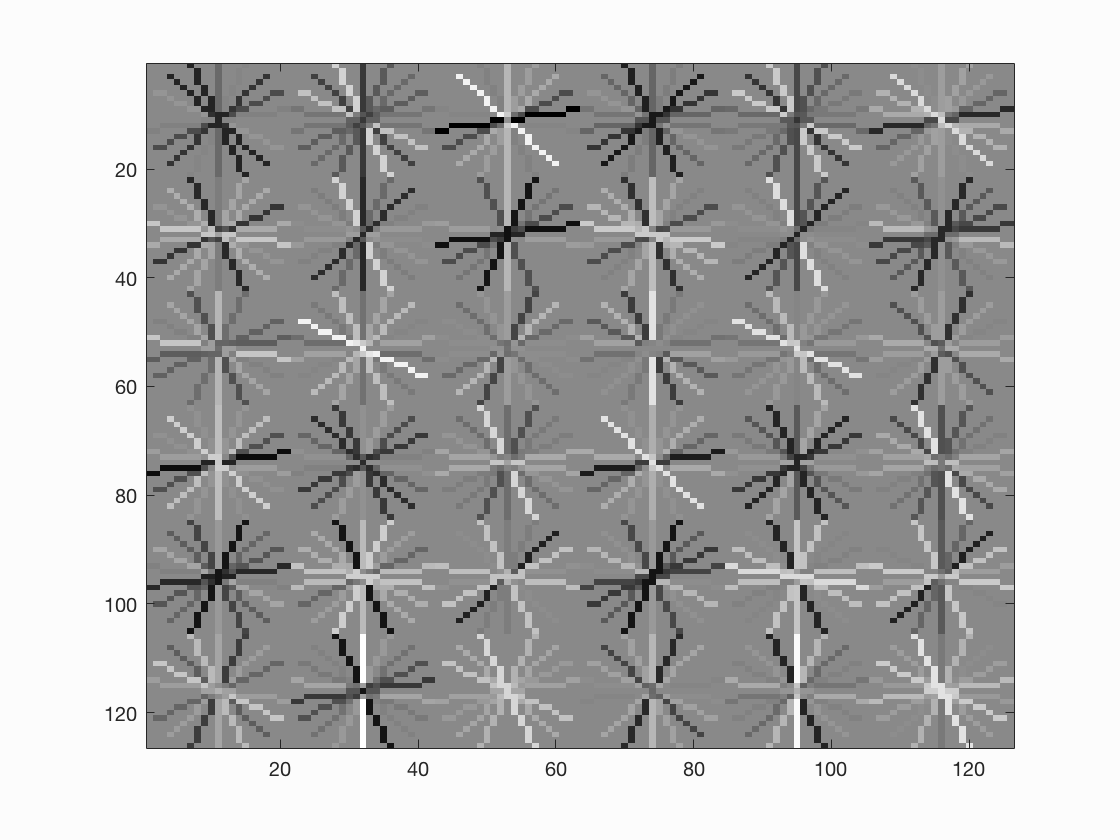
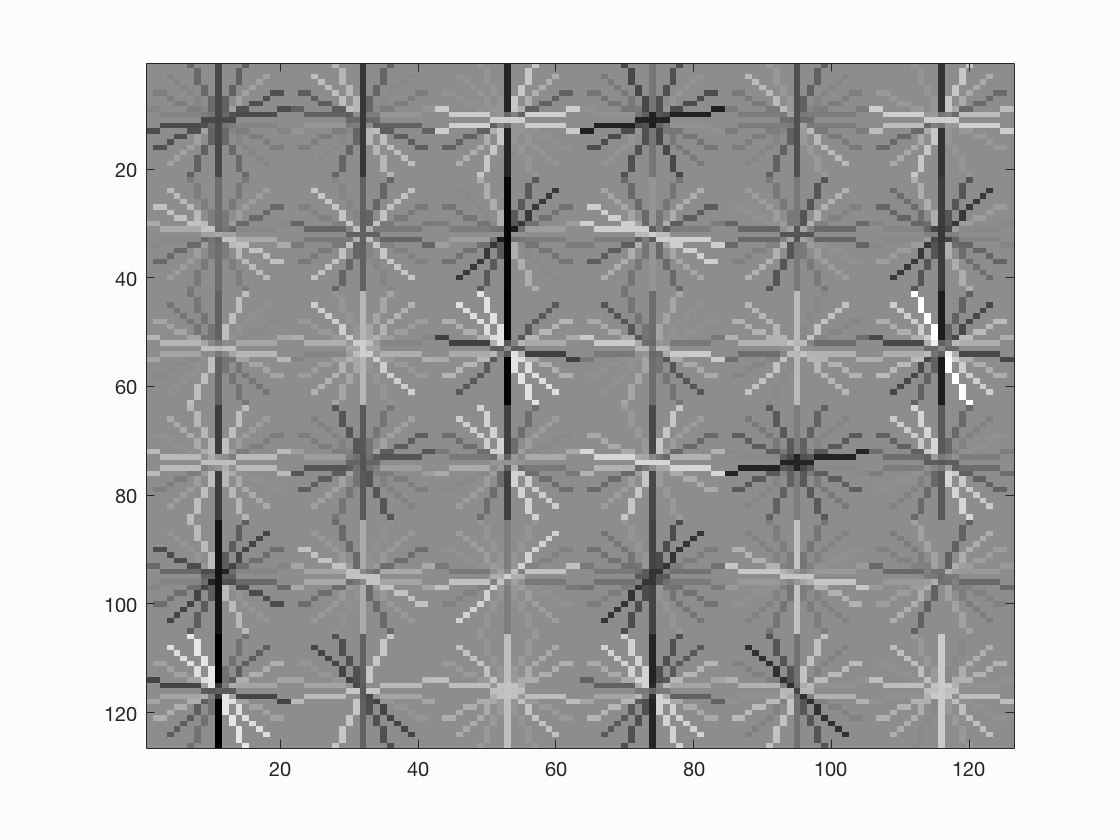
add multiscale & bug fixed

Changed region(s): [[0.125, 0.0619, 0.9062, 0.8976]]

diff --git a/run_detector.m b/run_detector.m
@@ -18,7 +18,6 @@ function [bboxes, confidences, image_ids] = ....
 %      Smaller HoG cell sizes tend to work better, but they make things
 %      slower because the feature dimensionality increases and more
 %      importantly the step size of the classifier decreases at test time.
-
 % 'bboxes' is Nx4. N is the number of detections. bboxes(i,:) is
 %   [x_min, y_min, x_max, y_max] for detection i. 
 %   Remember 'y' is dimension 1 in Matlab!
@@ -26,11 +25,9 @@ function [bboxes, confidences, image_ids] = ....
 %   detection i.
 % 'image_ids' is an Nx1 cell array. image_ids{i} is the image file name
 %   for detection i. (not the full path, just 'albert.jpg')
-
 % The placeholder version of this code will return random bounding boxes in
 % each test image. It will even do non-maximum suppression on the random
 % bounding boxes to give you an example of how to call the function.
-
 % Your actual code should convert each test image to HoG feature space with
 % a _single_ call to vl_hog for each scale. Then step over the HoG cells,
 % taking groups of cells that are the same size as your learned template,
@@ -38,48 +35,90 @@ function [bboxes, confidences, image_ids] = ....
 % keep the detection and then pass all the detections for an image to
 % non-maximum suppression. For your initial debugging, you can operate only
 % at a single scale and you can skip calling non-maximum suppression.
-
 test_scenes = dir( fullfile( test_scn_path, '*.jpg' ));
-
+fprintf('~~~path: %s', test_scn_path);
 %initialize these as empty and incrementally expand them.
 bboxes = zeros(0,4);
 confidences = zeros(0,1);
 image_ids = cell(0,1);
-
 for i = 1:length(test_scenes)
       
     fprintf('Detecting faces in %s\n', test_scenes(i).name)
-    img = imread( fullfile( test_scn_path, test_scenes(i).name ));
-    img = single(img)/255;
-    if(size(img,3) > 1)
-        img = rgb2gray(img);
+    IMG = imread( fullfile( test_scn_path, test_scenes(i).name ));
+    if(size(IMG,3) > 1)
+        IMG = rgb2gray(IMG);
     end
-    
-    %You can delete all of this below.
-    % Let's create 15 random detections per image
-    cur_x_min = rand(15,1) * size(img,2);
-    cur_y_min = rand(15,1) * size(img,1);
-    cur_bboxes = [cur_x_min, cur_y_min, cur_x_min + rand(15,1) * 50, cur_y_min + rand(15,1) * 50];
-    cur_confidences = rand(15,1) * 4 - 2; %confidences in the range [-2 2]
-    cur_image_ids(1:15,1) = {test_scenes(i).name};
-    
+    %img = single(img)/255;???
+    img = IMG;
+    num_cells= feature_params.template_size / feature_params.hog_cell_size; %6.
+    num_orientations=9;
+    D=(num_cells)^2 * 4 * num_orientations;
+    cur_bboxes = zeros(0,4);
+    cur_confidences = zeros(0,1);
+    cur_image_ids = cell(0,1);
+    rate=single(1.0);
+    fprintf('\n');
+    while 1
+        %fprintf('size:%d*%d\n',size(img,1),size(img,2) );
+        fprintf('rate: %f ',rate);
+        if size(img,1)<36 || size(img,2)<36
+            break;
+        end
+        %You can delete all of this below.
+        % Let's create 15 random detections per image
+        %cur_x_min = rand(15,1) * size(img,2);
+        %cur_y_min = rand(15,1) * size(img,1);
+        %cur_bboxes = [cur_x_min, cur_y_min, cur_x_min + rand(15,1) * 50, cur_y_min + rand(15,1) * 50];
+        %cur_confidences = rand(15,1) * 4 - 2; %confidences in the range [-2 2]
+        %cur_image_ids(1:15,1) = {test_scenes(i).name};
+
+        [X,Y]=size(img);
+        feature=rand(1,D);
+        %fprintf('Find faces in %s\n', test_scenes(i).name);
+
+        HOG = vl_hog(single(img),feature_params.hog_cell_size,'variant','dalaltriggs','numOrientations',num_orientations);
+
+        for j=0:feature_params.hog_cell_size:(X-feature_params.template_size)
+            for k=0:feature_params.hog_cell_size:(Y-feature_params.template_size)
+                %Im=img((j+1):(j+feature_params.template_size),(k+1):(k+feature_params.template_size));
+                hog = HOG((j/feature_params.hog_cell_size+1) : (j/feature_params.hog_cell_size+num_cells),... 
+                        (k/feature_params.hog_cell_size+1) : (k/feature_params.hog_cell_size+num_cells),:);
+                temp1=reshape(hog,[num_cells^2,num_orientations*4]);
+                temp2=transpose(temp1);
+                feature(1,:)=reshape(temp2,[1,D]); 
+                %for m=1:num_cells
+                %   for n=1:num_cells
+                %      last=((m-1)*num_cells+n-1)*36;
+                %     curr=((m-1)*num_cells+n)*36;
+                %    feature_pos((last+1):curr)=HOG(m,n,:);
+                % end 
+                %end
+                confidence=feature*w+b;
+                if confidence>0.45
+                    cur_bboxes=[cur_bboxes; (k+1)/rate,(j+1)/rate,(k+feature_params.template_size)/rate,(j+feature_params.template_size)/rate];
+                    cur_confidences=[cur_confidences;confidence];
+                    cur_image_ids=[cur_image_ids;test_scenes(i).name];
+                end
+            end
+        end
+        img = imresize(img,0.9);
+        rate = rate*0.9;
+    end
+    %fprintf('Suppress %d %d faces in %s\n', size(cur_bboxes,1),size(cur_confidences,1),test_scenes(i).name);
     %non_max_supr_bbox can actually get somewhat slow with thousands of
     %initial detections. You could pre-filter the detections by confidence,
     %e.g. a detection with confidence -1.1 will probably never be
     %meaningful. You probably _don't_ want to threshold at 0.0, though. You
     %can get higher recall with a lower threshold. You don't need to modify
     %anything in non_max_supr_bbox, but you can.
-    [is_maximum] = non_max_supr_bbox(cur_bboxes, cur_confidences, size(img));
-
+    [is_maximum] = non_max_supr_bbox(cur_bboxes, cur_confidences, size(IMG));
     cur_confidences = cur_confidences(is_maximum,:);
     cur_bboxes      = cur_bboxes(     is_maximum,:);
     cur_image_ids   = cur_image_ids(  is_maximum,:);
- 
+
     bboxes      = [bboxes;      cur_bboxes];
     confidences = [confidences; cur_confidences];
     image_ids   = [image_ids;   cur_image_ids];
+        
+        
 end
-
-
-
-

diff --git a/proj4.m b/proj4.m
@@ -57,10 +57,10 @@ feature_params = struct('template_size', 36, 'hog_cell_size', 6);
 
 %% Step 1. Load positive training crops and random negative examples
 %YOU CODE 'get_positive_features' and 'get_random_negative_features'
-
+    
 features_pos = get_positive_features( train_path_pos, feature_params );
 
-num_negative_examples = 10000; %Higher will work strictly better, but you should start with 10000 for debugging
+num_negative_examples = 20000; %Higher swill work strictly better, but you should start with 10000 for debugging
 features_neg = get_random_negative_features( non_face_scn_path, feature_params, num_negative_examples);
 
     
@@ -80,8 +80,8 @@ features_neg = get_random_negative_features( non_face_scn_path, feature_params, 
 X = [features_pos; features_neg];
 X = X.';
 
-[posN, D] = size(features_pos);
-[negN, D] = size(features_neg);
+[posN, ~] = size(features_pos);
+[negN, ~] = size(features_neg);
 y1 = ones(posN,1);
 y2 = ones(negN,1)*(-1);
 Y = [y1;y2];
@@ -157,10 +157,10 @@ imwrite(hog_template_image, 'visualizations/hog_template.png')
 [gt_ids, gt_bboxes, gt_isclaimed, tp, fp, duplicate_detections] = ...
     evaluate_detections(bboxes, confidences, image_ids, label_path);
 
-visualize_detections_by_image(bboxes, confidences, image_ids, tp, fp, test_scn_path, label_path)
+%visualize_detections_by_image(bboxes, confidences, image_ids, tp, fp, test_scn_path, label_path)
 % visualize_detections_by_image_no_gt(bboxes, confidences, image_ids, test_scn_path)
 
-% visualize_detections_by_confidence(bboxes, confidences, image_ids, test_scn_path, label_path);
+ visualize_detections_by_confidence(bboxes, confidences, image_ids, test_scn_path, label_path);
 
 % performance to aim for
 % random (stater code) 0.001 AP

diff --git a/get_positive_features.m b/get_positive_features.m
@@ -38,13 +38,16 @@ for i=1:num_images
     file=fullfile(train_path_pos, image_files(i).name);
     Im=imread(file);
     HOG=vl_hog(single(Im),feature_params.hog_cell_size,'variant','dalaltriggs','numOrientations',num_orientations);
-    for j=1:num_cells
-        for k=1:num_cells
-            last=((j-1)*num_cells+k-1)*num_orientations*4;
-            curr=((j-1)*num_cells+k)*num_orientations*4;
-            features_pos(i,(last+1):curr)=HOG(j,k,:);
-        end 
-    end           
+    temp1=reshape(HOG,[num_cells^2,num_orientations*4]);
+    temp2=transpose(temp1);
+    features_pos(i,:)=reshape(temp2,[D,1]); 
+    %for j=1:num_cells
+    %    for k=1:num_cells
+    %       last=((j-1)*num_cells+k-1)*num_orientations*4;
+    %        curr=((j-1)*num_cells+k)*num_orientations*4;
+    %        features_pos(i,(last+1):curr)=HOG(j,k,:);
+    %    end 
+    %end           
 end
 % placeholder to be deleted
 %features_pos = rand(100, (feature_params.template_size / feature_params.hog_cell_size)^2 * 31);

diff --git a/get_random_negative_features.m b/get_random_negative_features.m
@@ -56,13 +56,16 @@ for i=1:num_samples
     end
     Im=OIm((x+1):(x+feature_params.template_size),(y+1):(y+feature_params.template_size));
     HOG=vl_hog(single(Im),feature_params.hog_cell_size,'variant','dalaltriggs','numOrientations',num_orientations);
-    for j=1:num_cells
-        for k=1:num_cells
-            last=((j-1)*num_cells+k-1)*num_orientations*4;
-            curr=((j-1)*num_cells+k)*num_orientations*4;
-            features_neg(i,(last+1):curr)=HOG(j,k,:);
-        end 
-    end           
+    temp1=reshape(HOG,[num_cells^2,num_orientations*4]);
+    temp2=transpose(temp1);
+    features_neg(i,:)=reshape(temp2,[D,1]); 
+    %for j=1:num_cells
+    %    for k=1:num_cells
+    %        last=((j-1)*num_cells+k-1)*num_orientations*4;
+    %        curr=((j-1)*num_cells+k)*num_orientations*4;
+    %        features_neg(i,(last+1):curr)=HOG(j,k,:);
+    %    end 
+    %end           
 end
 
 
